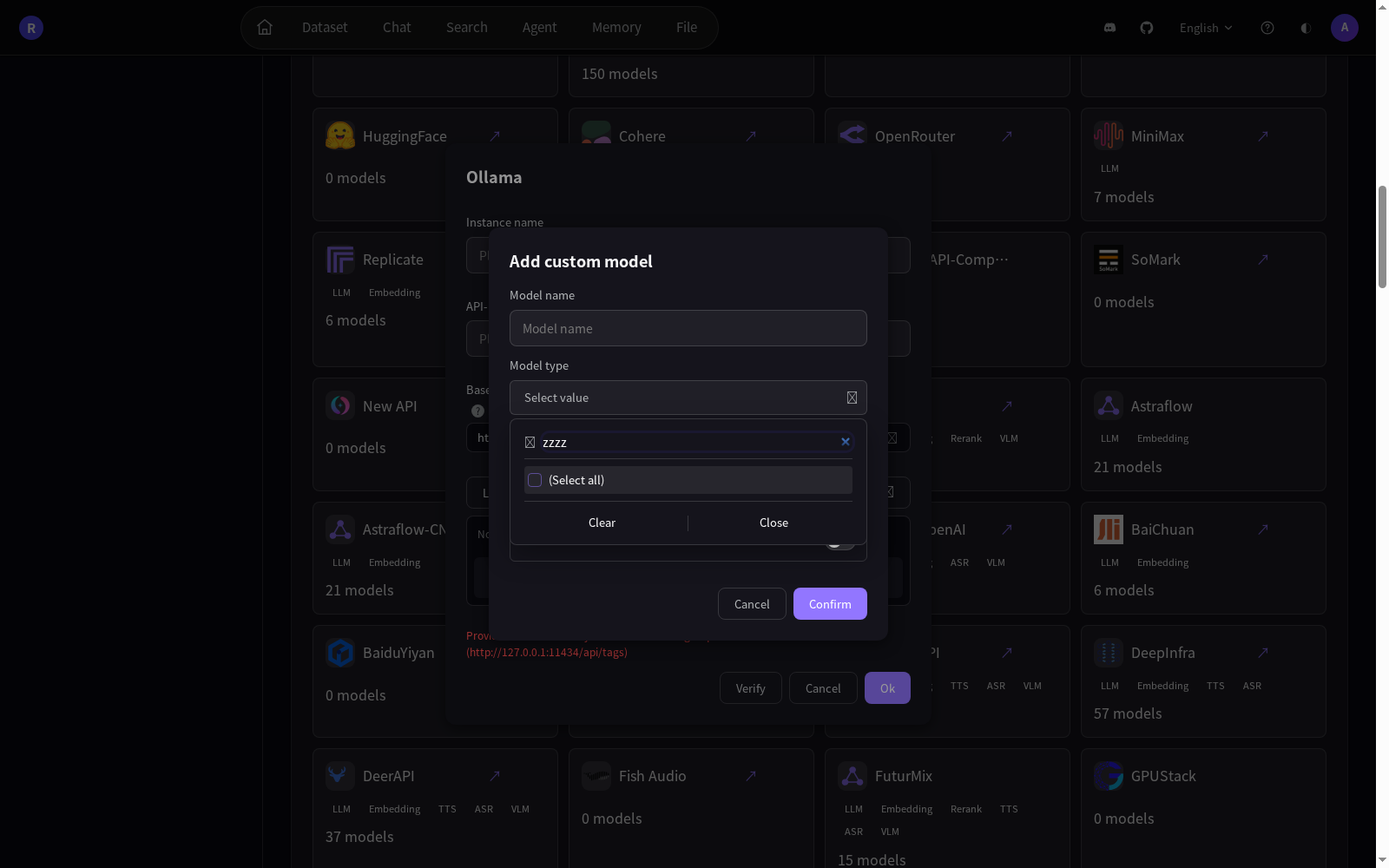
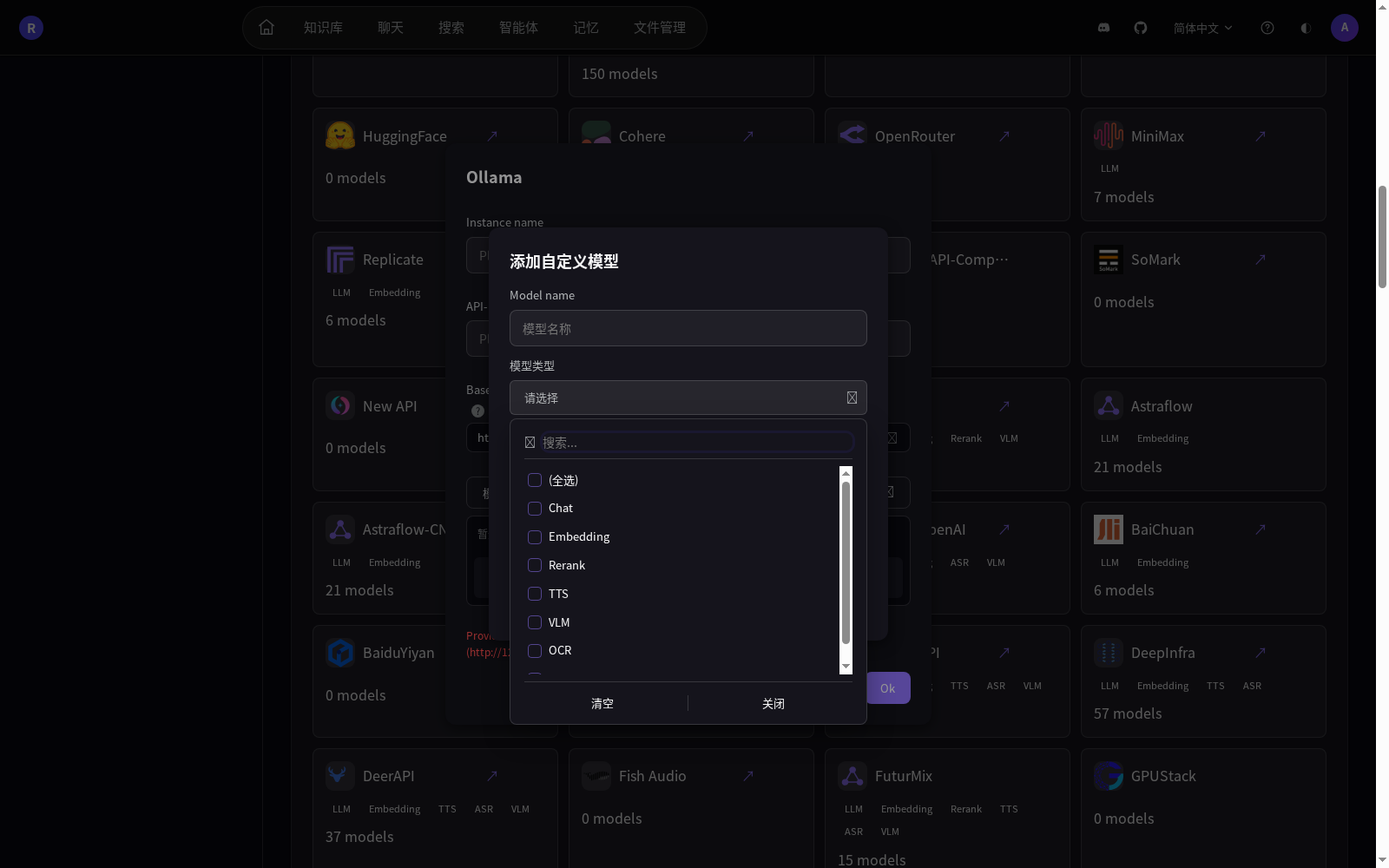
fix(custom-model): localise the dialog captions through the label table
The Model name / Max tokens captions were hard-coded English inside the raw
markup, so the Chinese dialog fell back to English while upstream resolves them
through `setting.modelName` / `setting.modelMaxTokens`. They are now spans
filled by `pcmApplyLabels()` (the same table the placeholders use), which also
localises the title and the footer buttons.

diff --git a/src/web.rs b/src/web.rs
@@ -5082,7 +5082,7 @@ pub async fn providers_page(
     b.push_str(";body.appendChild(empty)}else{provider.models.forEach(function(model){var row=document.createElement('div');row.style.cssText='padding:8px 0;border-bottom:1px solid var(--bd);display:flex;align-items:center;gap:8px;flex-wrap:wrap';var name=document.createElement('span');name.style.fontWeight='500';name.textContent=model.n;row.appendChild(name);(model.t||[]).forEach(function(tag){var badge=document.createElement('span');badge.className='badge bs';badge.textContent=tag;row.appendChild(badge)});body.appendChild(row)})}document.getElementById('modelModal').classList.add('show')}</script>");
     b.push_str(
         r##"<div class='modal-overlay' id='providerInstanceModal' data-testid='provider-instance-dialog' onclick='if(event.target===this)closeProviderInstanceModal()'><div class='modal provider-instance-modal' role='dialog' aria-modal='true' aria-labelledby='providerInstanceTitle'><div class='provider-instance-title'><h2 id='providerInstanceTitle'></h2></div><label class='provider-instance-field'>Instance name<input id='piName' name='instance_name' placeholder='Please input the instance name!' autocomplete='off'></label><p id='piNameError' class='provider-instance-error'></p><label class='provider-instance-field'>API-Key<input id='piKey' name='api_key' type='password' placeholder='Please enter the API key' autocomplete='new-password'></label><p id='piKeyError' class='provider-instance-error'></p><label class='provider-instance-field' id='piBaseField'>Base-Url<span class='provider-base-tip tip' id='piBaseTip' tabindex='0' aria-label='' data-tip='' hidden>?</span><div class='input-select' id='piBaseSelect'><div class='input-select-trigger' id='piBaseTrigger' role='combobox' aria-haspopup='listbox' aria-expanded='false' aria-controls='piBasePopover' onclick='openPiBasePicker()'><div class='input-select-values'><span class='input-select-selected' id='piBaseSelected' hidden><span class='input-select-selected-label' id='piBaseSelectedLabel'></span><button class='input-select-clear' id='piBaseClear' type='button' aria-label='Clear base url' onclick='clearPiBase(event)'>×</button></span><input id='piBase' name='base_url' class='input-select-input' placeholder='Please input your base url!' autocomplete='off' oninput='onPiBaseInput()' onkeydown='onPiBaseKeydown(event)' onfocus='openPiBasePicker()' onblur='onPiBaseBlur()' onmousedown='event.stopPropagation()'></div><span class='input-select-chevron' aria-hidden='true'>⌄</span></div><div class='input-select-popover' id='piBasePopover' role='listbox' hidden><div class='input-select-list' id='piBaseList'></div></div></div></label><p id='piBaseError' class='provider-instance-error'></p><label class='provider-instance-switch' id='piVisionField'><span>Vision</span><input id='piVision' type='checkbox' role='switch' aria-label='Vision'></label><label class='provider-instance-field' id='piGroupField'>Group ID<input id='piGroup' name='group_id' autocomplete='off'></label><label class='provider-instance-field' id='piProviderOrderField' hidden>Provider order<input id='piProviderOrder' name='provider_order' autocomplete='off' placeholder='Provider order'></label><section id='piModelPicker' class='provider-model-picker' aria-label='Provider models'><button class='btn btn-o provider-model-trigger' id='piListModels' type='button' aria-expanded='false' aria-controls='piModelList' onclick='toggleProviderModelPicker()'><span id='piListModelsText'>List models</span><span class='provider-model-chevron' aria-hidden='true'>⌄</span></button><div id='piModelPanel' class='provider-model-panel' hidden><div class='provider-model-search-row' id='piModelSearchRow'><span aria-hidden='true'>⌕</span><input id='piModelSearch' type='search' placeholder='Search models…' aria-label='Search models' oninput='renderProviderModelList()'><button class='provider-model-search-clear' id='piModelSearchClear' type='button' aria-label='Clear search' hidden onclick='clearProviderModelSearch()'>×</button></div><p id='piModelLoading' class='provider-model-empty'></p><div id='piModelList' class='provider-model-list' role='list'></div><div class='provider-model-add' role='button' tabindex='0' aria-label='Add custom model' data-testid='pi-add-custom-model' onclick='showProviderCustomModel()' onkeydown="if(event.key==='Enter'||event.key===' '){event.preventDefault();showProviderCustomModel()}"><span id='piModelAddIcon' aria-hidden='true'></span><span id='piModelAddText'>Add custom model</span></div></div><p id='piModelError' class='provider-instance-error'></p></section><p id='piStatus' class='provider-instance-status' aria-live='polite'></p><div class='provider-instance-actions'><button class='btn btn-o' id='piVerify' type='button' onclick='verifyProviderInstance()'>Verify</button><button class='btn btn-o' type='button' onclick='closeProviderInstanceModal()'>Cancel</button><button class='btn btn-p' id='piOk' type='button' onclick='saveProviderInstance()'>Ok</button></div></div></div>
-<div class='modal-overlay provider-custom-model-overlay' id='providerCustomModelModal' style='z-index:1001' data-testid='add-custom-model-dialog' onclick='if(event.target===this)closeProviderCustomModel()'><div class='modal provider-custom-model-modal' role='dialog' aria-modal='true' aria-labelledby='providerCustomModelTitle'><h2 id='providerCustomModelTitle'>Add custom model</h2><label class='provider-instance-field'>Model name<input id='pcmName' name='name' placeholder='Model name' autocomplete='off'></label><div class='provider-instance-field' id='pcmTypesField'><span id='pcmTypesLabel'>Model type</span><div class='pi-multiselect' id='pcmTypes'><button type='button' class='pi-multiselect-trigger' id='pcmTypesTrigger' data-testid='pcm-types-trigger' aria-haspopup='listbox' aria-expanded='false' onclick='piMsToggleOpen(&quot;pcmTypes&quot;,event)'><span class='pi-multiselect-values' id='pcmTypesValues'><span class='pi-multiselect-placeholder' id='pcmTypesPlaceholder'>Select value</span></span><span class='pi-multiselect-controls'><span class='pi-multiselect-clear' id='pcmTypesClear' role='button' tabindex='0' aria-label='Clear' hidden onclick='piMsClear(&quot;pcmTypes&quot;,event)'></span><span class='pi-multiselect-chevron' aria-hidden='true'>⌄</span></span></button><div class='pi-multiselect-popover' id='pcmTypesPopover' hidden role='listbox' aria-multiselectable='true' aria-label='Model type'><div class='pi-multiselect-search'><span aria-hidden='true'>⌕</span><input id='pcmTypesSearch' type='search' placeholder='Search...' aria-label='Search model types' oninput='piMsRender(&quot;pcmTypes&quot;)'></div><div class='pi-multiselect-options' id='pcmTypesOptions'></div><div class='pi-multiselect-footer'><button type='button' class='pi-multiselect-action' id='pcmTypesClearAll' onclick='piMsClear(&quot;pcmTypes&quot;)'>Clear</button><span class='pi-multiselect-sep' aria-hidden='true'></span><button type='button' class='pi-multiselect-action' id='pcmTypesClose' onclick='piMsClose(&quot;pcmTypes&quot;)'>Close</button></div></div></div></div><label class='provider-instance-field'>Max tokens<input id='pcmMaxTokens' name='max_tokens' type='number' min='0' value='0' placeholder='Max tokens'></label><div class='pi-switch-group' id='pcmFeatures'><span id='pcmFeaturesLabel'>Model features</span><label class='pi-switch-row'><span id='pcmToolsLabel'>Tool call</span><input id='pcmTools' type='checkbox' role='switch' aria-label='Tool call'></label></div><p id='pcmError' class='provider-instance-error'></p><div class='provider-instance-actions'><button class='btn btn-o' type='button' id='pcmCancel' onclick='closeProviderCustomModel()'>Cancel</button><button class='btn btn-p' type='button' onclick='addProviderCustomModel()' id='pcmSubmit'>Confirm</button></div></div></div>
+<div class='modal-overlay provider-custom-model-overlay' id='providerCustomModelModal' style='z-index:1001' data-testid='add-custom-model-dialog' onclick='if(event.target===this)closeProviderCustomModel()'><div class='modal provider-custom-model-modal' role='dialog' aria-modal='true' aria-labelledby='providerCustomModelTitle'><h2 id='providerCustomModelTitle'></h2><label class='provider-instance-field'><span id='pcmNameLabel'></span><input id='pcmName' name='name' autocomplete='off'></label><div class='provider-instance-field' id='pcmTypesField'><span id='pcmTypesLabel'>Model type</span><div class='pi-multiselect' id='pcmTypes'><button type='button' class='pi-multiselect-trigger' id='pcmTypesTrigger' data-testid='pcm-types-trigger' aria-haspopup='listbox' aria-expanded='false' onclick='piMsToggleOpen(&quot;pcmTypes&quot;,event)'><span class='pi-multiselect-values' id='pcmTypesValues'><span class='pi-multiselect-placeholder' id='pcmTypesPlaceholder'>Select value</span></span><span class='pi-multiselect-controls'><span class='pi-multiselect-clear' id='pcmTypesClear' role='button' tabindex='0' aria-label='Clear' hidden onclick='piMsClear(&quot;pcmTypes&quot;,event)'></span><span class='pi-multiselect-chevron' aria-hidden='true'>⌄</span></span></button><div class='pi-multiselect-popover' id='pcmTypesPopover' hidden role='listbox' aria-multiselectable='true' aria-label='Model type'><div class='pi-multiselect-search'><span aria-hidden='true'>⌕</span><input id='pcmTypesSearch' type='search' placeholder='Search...' aria-label='Search model types' oninput='piMsRender(&quot;pcmTypes&quot;)'></div><div class='pi-multiselect-options' id='pcmTypesOptions'></div><div class='pi-multiselect-footer'><button type='button' class='pi-multiselect-action' id='pcmTypesClearAll' onclick='piMsClear(&quot;pcmTypes&quot;)'>Clear</button><span class='pi-multiselect-sep' aria-hidden='true'></span><button type='button' class='pi-multiselect-action' id='pcmTypesClose' onclick='piMsClose(&quot;pcmTypes&quot;)'>Close</button></div></div></div></div><label class='provider-instance-field'><span id='pcmMaxTokensLabel'></span><input id='pcmMaxTokens' name='max_tokens' type='number' min='0' value='0'></label><div class='pi-switch-group' id='pcmFeatures'><span id='pcmFeaturesLabel'>Model features</span><label class='pi-switch-row'><span id='pcmToolsLabel'>Tool call</span><input id='pcmTools' type='checkbox' role='switch' aria-label='Tool call'></label></div><p id='pcmError' class='provider-instance-error'></p><div class='provider-instance-actions'><button class='btn btn-o' type='button' id='pcmCancel' onclick='closeProviderCustomModel()'>Cancel</button><button class='btn btn-p' type='button' onclick='addProviderCustomModel()' id='pcmSubmit'>Confirm</button></div></div></div>
 <div class='modal-overlay' id='bedrockModal' data-testid='bedrock-dialog' onclick='if(event.target===this)closeBedrockModal()'><div class='modal provider-instance-modal bedrock-modal' role='dialog' aria-modal='true' aria-labelledby='bedrockTitle'><div class='provider-instance-title'><h2 id='bedrockTitle'></h2><a id='bedrockDoc' class='available-provider-doc' target='_blank' rel='noopener noreferrer' aria-label='Open provider documentation'>↗</a></div><label class='provider-instance-field'>Instance name<input id='bdName' name='instance_name' placeholder='Please input the instance name!' autocomplete='off' oninput='bedrockRefreshInstanceState()'></label><p id='bdNameError' class='provider-instance-error'></p><fieldset class='bedrock-model-types'><legend>Model type</legend><label><input type='checkbox' name='bdType' value='chat'> Chat</label><label><input type='checkbox' name='bdType' value='embedding'> Embedding</label></fieldset><p id='bdTypeError' class='provider-instance-error'></p><label class='provider-instance-field'>Model name<input id='bdModelName' name='llm_name' placeholder='Please input your model name!' autocomplete='off'></label><p id='bdModelError' class='provider-instance-error'></p><div id='bdAuthSection'><div class='bedrock-auth-segment' id='bdAuthMode' role='radiogroup' aria-label='AWS authentication mode' data-testid='bedrock-auth-mode'><button type='button' role='radio' aria-checked='true' data-mode='access_key_secret' onclick='setBedrockAuthMode("access_key_secret")'>Access Key</button><button type='button' role='radio' aria-checked='false' data-mode='iam_role' onclick='setBedrockAuthMode("iam_role")'>IAM Role</button><button type='button' role='radio' aria-checked='false' data-mode='assume_role' onclick='setBedrockAuthMode("assume_role")'>Assume Role</button></div><div id='bdAkSk'><label class='provider-instance-field'>AWS Access Key ID<input id='bdAk' name='bedrock_ak' placeholder='Please input your ACCESS KEY' autocomplete='off'></label><p id='bdAkError' class='provider-instance-error'></p><label class='provider-instance-field'>AWS Secret Access Key<input id='bdSk' name='bedrock_sk' type='password' placeholder='Please input your SECRET KEY' autocomplete='new-password'></label><p id='bdSkError' class='provider-instance-error'></p></div><div id='bdRoleArnField' hidden><label class='provider-instance-field'>AWS Role ARN<input id='bdRoleArn' name='aws_role_arn' placeholder='Please enter AWS Role ARN' autocomplete='off'></label><p id='bdRoleArnError' class='provider-instance-error'></p></div><p id='bdAssumeTip' class='bedrock-assume-tip' hidden>If you select this mode, the Amazon EC2 instance will assume its existing role to access AWS services. No additional credentials are required.</p><label class='provider-instance-field'>AWS region<input id='bdRegion' name='bedrock_region' list='bdRegionOptions' placeholder='Please select!' data-testid='bedrock-region-select' autocomplete='off'><datalist id='bdRegionOptions'></datalist></label><p id='bdRegionError' class='provider-instance-error'></p></div><label class='provider-instance-field'>Max tokens<input id='bdMaxTokens' name='max_tokens' type='number' min='0' value='8192' placeholder='The maximum context size of the model'></label><p id='bdMaxTokensError' class='provider-instance-error'></p><p id='bdStatus' class='provider-instance-status' aria-live='polite'></p><div class='provider-instance-actions'><button class='btn btn-o' id='bdVerify' type='button' onclick='verifyBedrock()'>Verify</button><button class='btn btn-o' type='button' onclick='closeBedrockModal()'>Cancel</button><button class='btn btn-p' id='bdOk' type='button' onclick='saveBedrock()'>Ok</button></div></div></div>
 <div class='modal-overlay' id='somarkModal' data-testid='somark-dialog' onclick='if(event.target===this)closeSoMarkModal()'><div class='modal provider-instance-modal somark-modal' role='dialog' aria-modal='true' aria-labelledby='somarkTitle'><div class='provider-instance-title'><h2 id='somarkTitle'></h2><a id='somarkDoc' class='available-provider-doc' target='_blank' rel='noopener noreferrer' aria-label='Open provider documentation'>↗</a></div><label class='provider-instance-field'>Instance name<input id='smName' name='instance_name' placeholder='Please input the instance name!' autocomplete='off'></label><p id='smNameError' class='provider-instance-error'></p><label class='provider-instance-field'>Model name<input id='smModelName' name='llm_name' placeholder='somark-from-env-1' autocomplete='off'></label><p id='smModelNameError' class='provider-instance-error'></p><label class='provider-instance-field'>Base URL<input id='smBaseUrl' name='somark_base_url' placeholder='For SoMark API, fill in https://somark.tech/api/v1; for self-hosted deployment, fill in your local Base URL' autocomplete='off'></label><p id='smBaseUrlError' class='provider-instance-error'></p><label class='provider-instance-field'>API Key<input id='smApiKey' name='somark_api_key' type='password' placeholder='Required for SoMark API; leave blank for self-hosted deployment' autocomplete='new-password'></label><h3 class='somark-section-title'>Element Formats</h3><label class='provider-instance-field'>Image Format<select id='smImageFormat'><option value='url'>URL</option><option value='base64'>Base64</option><option value='none'>None</option></select></label><label class='provider-instance-field'>Formula Format<select id='smFormulaFormat'><option value='latex'>LaTeX</option><option value='mathml'>MathML</option><option value='ascii'>ASCII</option></select></label><label class='provider-instance-field'>Table Format<select id='smTableFormat'><option value='html'>HTML</option><option value='markdown'>Markdown</option><option value='image'>Image</option></select></label><label class='provider-instance-field'>Chemical Structural Formula Format<select id='smCsFormat'><option value='image'>Image</option></select></label><h3 class='somark-section-title'>Feature Config</h3><label class='provider-instance-switch'><span>Enable Text Cross Page</span><input type='checkbox' role='switch' data-key='somark_enable_text_cross_page' aria-label='Enable Text Cross Page'></label><label class='provider-instance-switch'><span>Enable Table Cross Page</span><input type='checkbox' role='switch' data-key='somark_enable_table_cross_page' aria-label='Enable Table Cross Page'></label><label class='provider-instance-switch'><span>Enable Title Level Recognition</span><input type='checkbox' role='switch' data-key='somark_enable_title_level_recognition' aria-label='Enable Title Level Recognition'></label><label class='provider-instance-switch'><span>Enable Inline Image</span><input type='checkbox' role='switch' data-key='somark_enable_inline_image' aria-label='Enable Inline Image'></label><label class='provider-instance-switch'><span>Enable Table Image</span><input type='checkbox' role='switch' data-key='somark_enable_table_image' aria-label='Enable Table Image'></label><label class='provider-instance-switch'><span>Enable Image Understanding</span><input type='checkbox' role='switch' data-key='somark_enable_image_understanding' aria-label='Enable Image Understanding'></label><label class='provider-instance-switch'><span>Keep Header Footer</span><input type='checkbox' role='switch' data-key='somark_keep_header_footer' aria-label='Keep Header Footer'></label><p id='smStatus' class='provider-instance-status' aria-live='polite'></p><div class='provider-instance-actions'><button class='btn btn-o' id='smVerify' type='button' onclick='verifySoMark()'>Verify</button><button class='btn btn-o' type='button' onclick='closeSoMarkModal()'>Cancel</button><button class='btn btn-p' id='smOk' type='button' onclick='saveSoMark()'>Add</button></div></div></div><script>
 var providerInstanceCard=null;
@@ -5183,10 +5183,13 @@ function piMsToggleAll(prefix){var state=piMs(prefix);if(!state)return;var all=s
 function piMsRender(prefix){var state=piMs(prefix);if(!state)return;var host=piMsElement(prefix,'Options');if(!host)return;var search=piMsElement(prefix,'Search');var query=search?(search.value||'').trim():'';host.replaceChildren();// cmdk filters and sorts *every* item, the `(Select all)` row included, so a
 // query with no match hides it too and `CommandEmpty` takes over.
 var rows=[];if(state.showSelectAll!==false&&state.options.length)rows.push({value:'__all__',label:'('+PI_PICKER_LABELS.selectAll+')',all:true});state.options.forEach(function(option){rows.push({value:option[0],label:option[1]})});var scored=rows.map(function(row){return {row:row,score:query?piMsScore(row.label,query):1}}).filter(function(entry){return !query||entry.score>0});if(query)scored.sort(function(left,right){return right.score-left.score});var allSelected=state.options.length>0&&state.options.every(function(option){return state.selection.indexOf(option[0])>=0});scored.forEach(function(entry){var row=entry.row;var node=document.createElement('div');node.className='pi-multiselect-option'+(row.all?' pi-multiselect-all':'');node.setAttribute('role','option');node.dataset.value=row.value;var selected=row.all?allSelected:state.selection.indexOf(row.value)>=0;node.setAttribute('aria-selected',selected?'true':'false');var box=document.createElement('span');box.className='pi-multiselect-check'+(selected?' on':'');box.innerHTML=selected?PI_CHECK_SVG:'';var label=document.createElement('span');label.className='pi-multiselect-option-label';label.textContent=row.label;node.appendChild(box);node.appendChild(label);node.onclick=function(event){event.stopPropagation();if(row.all)piMsToggleAll(prefix);else piMsToggleValue(prefix,row.value)};host.appendChild(node)});if(!host.childElementCount){var empty=document.createElement('p');empty.className='pi-multiselect-empty';empty.textContent=PI_PICKER_LABELS.noDataFound;host.appendChild(empty)}var values=piMsElement(prefix,'Values');values.replaceChildren();if(!state.selection.length){var placeholder=document.createElement('span');placeholder.className='pi-multiselect-placeholder';placeholder.id=prefix+'Placeholder';placeholder.textContent=PI_PICKER_LABELS.selectPlaceholder;values.appendChild(placeholder)}else{state.selection.forEach(function(value){var badge=document.createElement('span');badge.className='pi-multiselect-badge';var text=document.createElement('span');text.className='pi-multiselect-badge-label';text.textContent=piMsLabel(value);var remove=document.createElement('span');remove.className='pi-multiselect-badge-remove';remove.setAttribute('role','button');remove.setAttribute('aria-label','Remove '+piMsLabel(value));remove.innerHTML=PI_XCIRCLE_SVG;remove.onclick=function(event){event.preventDefault();event.stopPropagation();piMsToggleValue(prefix,value)};badge.appendChild(text);badge.appendChild(remove);values.appendChild(badge)})}var clear=piMsElement(prefix,'Clear');if(clear)clear.hidden=!state.selection.length;var trigger=piMsElement(prefix,'Trigger');if(trigger)trigger.classList.toggle('has-value',state.selection.length>0)}
+// `add-custom-model-dialog.tsx` resolves every caption through `setting.*`;
+// the dialog's own labels come from the shared picker label table.
+function pcmApplyLabels(){var title=document.getElementById('providerCustomModelTitle');if(title&&!title.textContent)title.textContent=PI_PICKER_LABELS.addCustomModelTitle;var nameLabel=document.getElementById('pcmNameLabel');if(nameLabel)nameLabel.textContent=PI_PICKER_LABELS.modelName;var nameInput=document.getElementById('pcmName');if(nameInput)nameInput.placeholder=PI_PICKER_LABELS.modelName;var maxLabel=document.getElementById('pcmMaxTokensLabel');if(maxLabel)maxLabel.textContent=PI_PICKER_LABELS.modelMaxTokens;var maxInput=document.getElementById('pcmMaxTokens');if(maxInput)maxInput.placeholder=PI_PICKER_LABELS.modelMaxTokens;var featuresLabel=document.getElementById('pcmFeaturesLabel');if(featuresLabel)featuresLabel.textContent=PI_PICKER_LABELS.modelFeatures;var toolsLabel=document.getElementById('pcmToolsLabel');if(toolsLabel)toolsLabel.textContent=PI_PICKER_LABELS.modelFeatureToolCall;var cancel=document.getElementById('pcmCancel');if(cancel)cancel.textContent=PI_PICKER_LABELS.cancel;var submit=document.getElementById('pcmSubmit');if(submit)submit.textContent=PI_PICKER_LABELS.confirm}
 function piMsApplyLabels(prefix){var state=piMs(prefix);if(!state)return;var label=piMsElement(prefix,'Label');if(label)label.textContent=PI_PICKER_LABELS.modelType;var search=piMsElement(prefix,'Search');if(search)search.placeholder=PI_PICKER_LABELS.search+'...';var clearAll=piMsElement(prefix,'ClearAll');if(clearAll)clearAll.textContent=PI_PICKER_LABELS.clear;var close=piMsElement(prefix,'Close');if(close)close.textContent=PI_PICKER_LABELS.closeLabel;piMsRender(prefix)}
 document.addEventListener('click',function(event){Object.keys(PI_MULTISELECTS).forEach(function(prefix){if(!piMsOpen(prefix))return;var root=piMsElement(prefix,'');if(root&&root.contains(event.target))return;piMsClose(prefix)})});
 document.addEventListener('keydown',function(event){if(event.key!=='Escape')return;Object.keys(PI_MULTISELECTS).forEach(function(prefix){if(piMsOpen(prefix))piMsClose(prefix)})});
-function showProviderCustomModel(mode,modelName){var modal=document.getElementById('providerCustomModelModal');var editing=mode==='edit';modal.dataset.mode=editing?'edit':'add';modal.dataset.model=editing?modelName:'';var model=editing?piModels.filter(function(item){return item.name===modelName})[0]:null;var title=document.getElementById('providerCustomModelTitle');if(title)title.textContent=editing?PI_PICKER_LABELS.editCustomModelTitle:PI_PICKER_LABELS.addCustomModelTitle;var nameInput=document.getElementById('pcmName');nameInput.value=model?model.name:'';nameInput.disabled=editing;nameInput.placeholder=PI_PICKER_LABELS.modelName;var maxTokens=document.getElementById('pcmMaxTokens');maxTokens.value=String(model&&model.max_tokens!=null?model.max_tokens:0);maxTokens.placeholder=PI_PICKER_LABELS.modelMaxTokens;document.getElementById('pcmTools').checked=!!(model&&(model.features||[]).indexOf('is_tools')>=0);piMsSetSelection('pcmTypes',model&&Array.isArray(model.model_types)?model.model_types:[]);piMsClose('pcmTypes');document.getElementById('pcmError').textContent='';modal.classList.add('show')}
+function showProviderCustomModel(mode,modelName){var modal=document.getElementById('providerCustomModelModal');var editing=mode==='edit';modal.dataset.mode=editing?'edit':'add';modal.dataset.model=editing?modelName:'';var model=editing?piModels.filter(function(item){return item.name===modelName})[0]:null;var title=document.getElementById('providerCustomModelTitle');if(title)title.textContent=editing?PI_PICKER_LABELS.editCustomModelTitle:PI_PICKER_LABELS.addCustomModelTitle;pcmApplyLabels();var nameInput=document.getElementById('pcmName');nameInput.value=model?model.name:'';nameInput.disabled=editing;nameInput.placeholder=PI_PICKER_LABELS.modelName;var maxTokens=document.getElementById('pcmMaxTokens');maxTokens.value=String(model&&model.max_tokens!=null?model.max_tokens:0);maxTokens.placeholder=PI_PICKER_LABELS.modelMaxTokens;document.getElementById('pcmTools').checked=!!(model&&(model.features||[]).indexOf('is_tools')>=0);piMsSetSelection('pcmTypes',model&&Array.isArray(model.model_types)?model.model_types:[]);piMsClose('pcmTypes');document.getElementById('pcmError').textContent='';modal.classList.add('show')}
 function closeProviderCustomModel(){var modal=document.getElementById('providerCustomModelModal');modal.classList.remove('show');modal.dataset.mode='add';modal.dataset.model='';var error=document.getElementById('pcmError');if(error)error.textContent='';var nameInput=document.getElementById('pcmName');if(nameInput){nameInput.disabled=false;nameInput.value=''}var maxTokens=document.getElementById('pcmMaxTokens');if(maxTokens)maxTokens.value='0';var tools=document.getElementById('pcmTools');if(tools)tools.checked=false;piMsSetSelection('pcmTypes',[]);piMsClose('pcmTypes')}
 function addProviderCustomModel(){var modal=document.getElementById('providerCustomModelModal');var editing=modal.dataset.mode==='edit';var original=modal.dataset.model||'';var nameInput=document.getElementById('pcmName');var name=editing?original:nameInput.value.trim();var types=PI_MODEL_TYPE_OPTIONS.map(function(option){return option[0]}).filter(function(value){return piMsSelection('pcmTypes').indexOf(value)>=0});var maxTokens=Number(document.getElementById('pcmMaxTokens').value);var error=document.getElementById('pcmError');if(!editing&&!name){error.textContent=PI_PICKER_LABELS.modelName+' is required';return}if(!editing&&piModels.some(function(model){return model.name===name})){error.textContent=PI_PICKER_LABELS.modelNameDuplicate;return}if(!Number.isFinite(maxTokens)||maxTokens<0){error.textContent=PI_PICKER_LABELS.modelMaxTokensMin;return}var features=document.getElementById('pcmTools').checked?['is_tools']:[];var updated={name:name,model_types:types,max_tokens:maxTokens,features:features,custom:true};if(editing){piModels=piModels.map(function(model){return model.name===original?updated:model});if(piSelectedModels.has(original)&&!piSelectedModels.has(name)){piSelectedModels.delete(original)}}else if(!piModels.some(function(model){return model.name===name})){piModels.push(updated);piSelectedModels.add(name)}piModelsLoaded=true;renderProviderModelList();closeProviderCustomModel()}
 async function providerInstanceApi(path,payload){var response=await fetch(path,{method:'POST',headers:{'Content-Type':'application/json'},body:JSON.stringify(payload)});var data=await response.json().catch(function(){return {}});if(!response.ok||data.code!==0)throw new Error(data.message||('HTTP '+response.status));return data}
@@ -5409,7 +5412,7 @@ async function confirmDeleteModelInstance(){var modal=document.getElementById('d
 function openEditInstanceModel(providerName,instanceName,model,content){var modal=document.getElementById('editInstanceModelModal');modal.dataset.provider=providerName;modal.dataset.instance=instanceName;modal.dataset.model=model.name;modal.dataset.contentId=content.id;document.getElementById('editInstanceModelName').value=model.name;document.getElementById('editInstanceModelMaxTokens').value=model.max_tokens||0;piMsSetSelection('eimTypes',model.model_type||[]);piMsClose('eimTypes');document.getElementById('editInstanceModelStatus').textContent='';modal.classList.add('show')}
 function closeEditInstanceModel(){document.getElementById('editInstanceModelModal').classList.remove('show')}
 async function saveEditInstanceModel(){var modal=document.getElementById('editInstanceModelModal');var button=document.getElementById('editInstanceModelOk');var status=document.getElementById('editInstanceModelStatus');var types=PI_MODEL_TYPE_OPTIONS.map(function(option){return option[0]}).filter(function(value){return piMsSelection('eimTypes').indexOf(value)>=0});if(!types.length){status.textContent=PI_PICKER_LABELS.modelTypeRequired;return}button.disabled=true;status.textContent='Saving…';try{await addedApi(addedUrl(modal.dataset.provider,modal.dataset.instance),{method:'PUT',headers:{'Content-Type':'application/json'},body:JSON.stringify({model_name:[modal.dataset.model],model_type:types})});var content=document.getElementById(modal.dataset.contentId);closeEditInstanceModel();if(content)await loadAddedInstanceModels(modal.dataset.provider,modal.dataset.instance,content);await loadModelOptions()}catch(error){status.textContent='Error: '+error.message}finally{button.disabled=false}}
-document.addEventListener('keydown',function(event){if(event.key==='Escape'){closeProviderInstanceModal();closeDeleteModelInstance();closeEditInstanceModel()}});piMsRegister('pcmTypes',PI_MODEL_TYPE_OPTIONS,[]);piMsRegister('eimTypes',PI_MODEL_TYPE_OPTIONS,[]);piMsApplyLabels('eimTypes');var eimTitle=document.getElementById('editInstanceModelTitle');if(eimTitle)eimTitle.textContent=PI_PICKER_LABELS.editCustomModelTitle;var eimCancel=document.getElementById('editInstanceModelCancel');if(eimCancel)eimCancel.textContent=PI_PICKER_LABELS.cancel;var eimConfirm=document.getElementById('editInstanceModelOk');if(eimConfirm)eimConfirm.textContent=PI_PICKER_LABELS.confirm;loadAddedModels();
+document.addEventListener('keydown',function(event){if(event.key==='Escape'){closeProviderInstanceModal();closeDeleteModelInstance();closeEditInstanceModel()}});piMsRegister('pcmTypes',PI_MODEL_TYPE_OPTIONS,[]);piMsRegister('eimTypes',PI_MODEL_TYPE_OPTIONS,[]);pcmApplyLabels();piMsApplyLabels('pcmTypes');piMsApplyLabels('eimTypes');var eimTitle=document.getElementById('editInstanceModelTitle');if(eimTitle)eimTitle.textContent=PI_PICKER_LABELS.editCustomModelTitle;var eimCancel=document.getElementById('editInstanceModelCancel');if(eimCancel)eimCancel.textContent=PI_PICKER_LABELS.cancel;var eimConfirm=document.getElementById('editInstanceModelOk');if(eimConfirm)eimConfirm.textContent=PI_PICKER_LABELS.confirm;loadAddedModels();
 </script>"#,
     );
     let page = if in_user_settings {
@@ -8278,6 +8281,10 @@ connection: close
             "node.className='pi-multiselect-option'+(row.all?' pi-multiselect-all':'')",
             "error.textContent=PI_PICKER_LABELS.modelName+' is required'",
             "if(model.features.indexOf('is_tools')>=0)entry.extra={is_tools:true}",
+            "function pcmApplyLabels()",
+            "nameLabel.textContent=PI_PICKER_LABELS.modelName",
+            "maxLabel.textContent=PI_PICKER_LABELS.modelMaxTokens",
+            "pcmApplyLabels();piMsApplyLabels('pcmTypes')",
         ] {
             assert!(
                 en_body.contains(marker),
@@ -8306,6 +8313,13 @@ connection: close
             .body(axum::body::Body::empty())
             .unwrap();
         let zh_body = body_of(providers_page(axum::extract::State(state), zh).await).await;
+        // Dialog captions come from the same table, so the Chinese dialog shows
+        // `模型名称` / `最大 Token 数` (upstream `setting.modelName` /
+        // `setting.modelMaxTokens`) instead of hard-coded English.
+        assert!(zh_body.contains("\"modelName\":\"模型名称\""));
+        assert!(zh_body.contains("\"modelMaxTokens\":\"最大 Token 数\""));
+        assert!(zh_body.contains("<span id='pcmNameLabel'></span>"));
+        assert!(zh_body.contains("<span id='pcmMaxTokensLabel'></span>"));
         for marker in [
             "\"noDataFound\":\"没有找到数据。\"",
             "\"selectAll\":\"全选\"",
